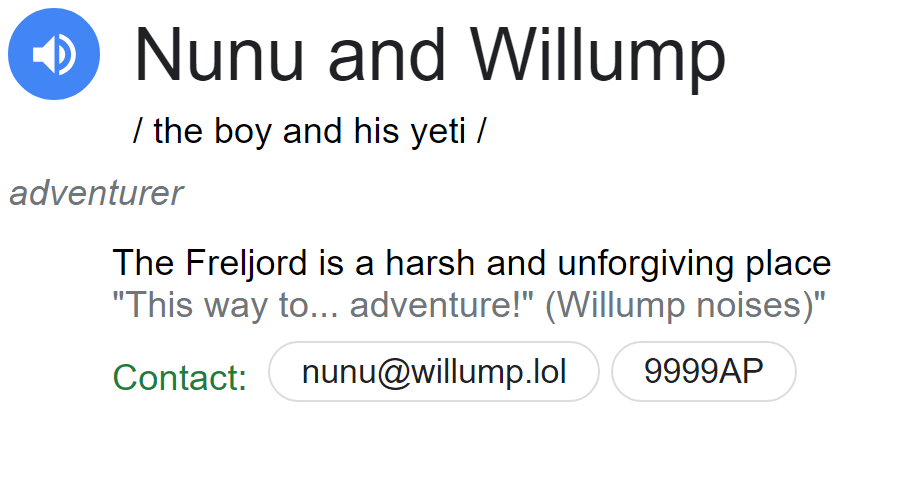
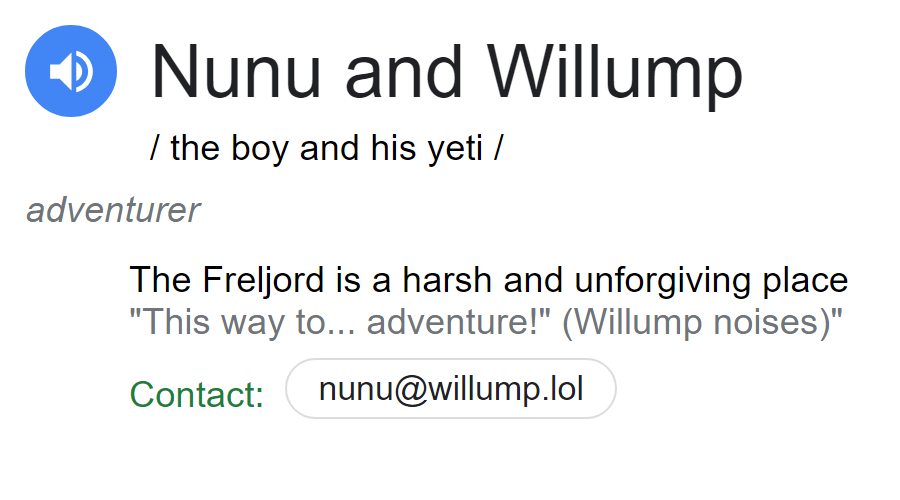
minor update

diff --git a/main.py b/main.py
@@ -29,8 +29,8 @@ while new_contacts:
     else:
         contacts.append(new_contact)
 
-lines = ['Nunu and Willump', 'the boy and his yeti', 'adventurer', 'The Freljord is a harsh and unforgiving place', '\"This way to... adventure!" (Willump noises)\"']
-contacts = ['nunu@willump.lol', '9999AP', 'snowball.gg']
+# lines = ['Nunu and Willump', 'the boy and his yeti', 'adventurer', 'The Freljord is a harsh and unforgiving place', '\"This way to... adventure!" (Willump noises)\"']
+# contacts = ['nunu@willump.lol', '9999AP', 'snowball.gg']
 print(lines, contacts)
         
 HTMLFile = open(HTML_PATH.format(file_name), "r", encoding="utf8") 

diff --git a/README.md b/README.md
@@ -1,7 +1,7 @@
 # business-card-maker
 Google definition looking business card generator
 
-## Example business card
+## Example card
 <img src="img/example.png" width=500px >
 
 ## How to
